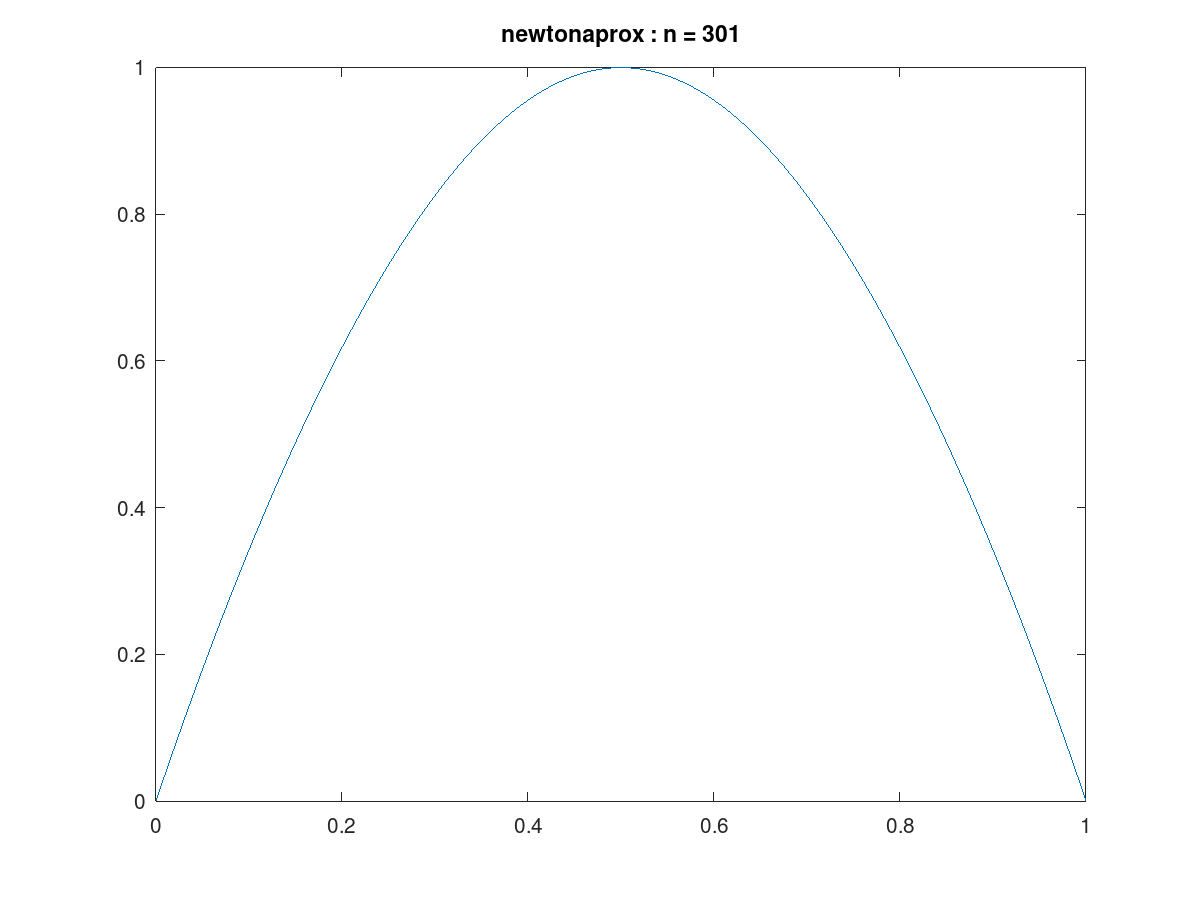
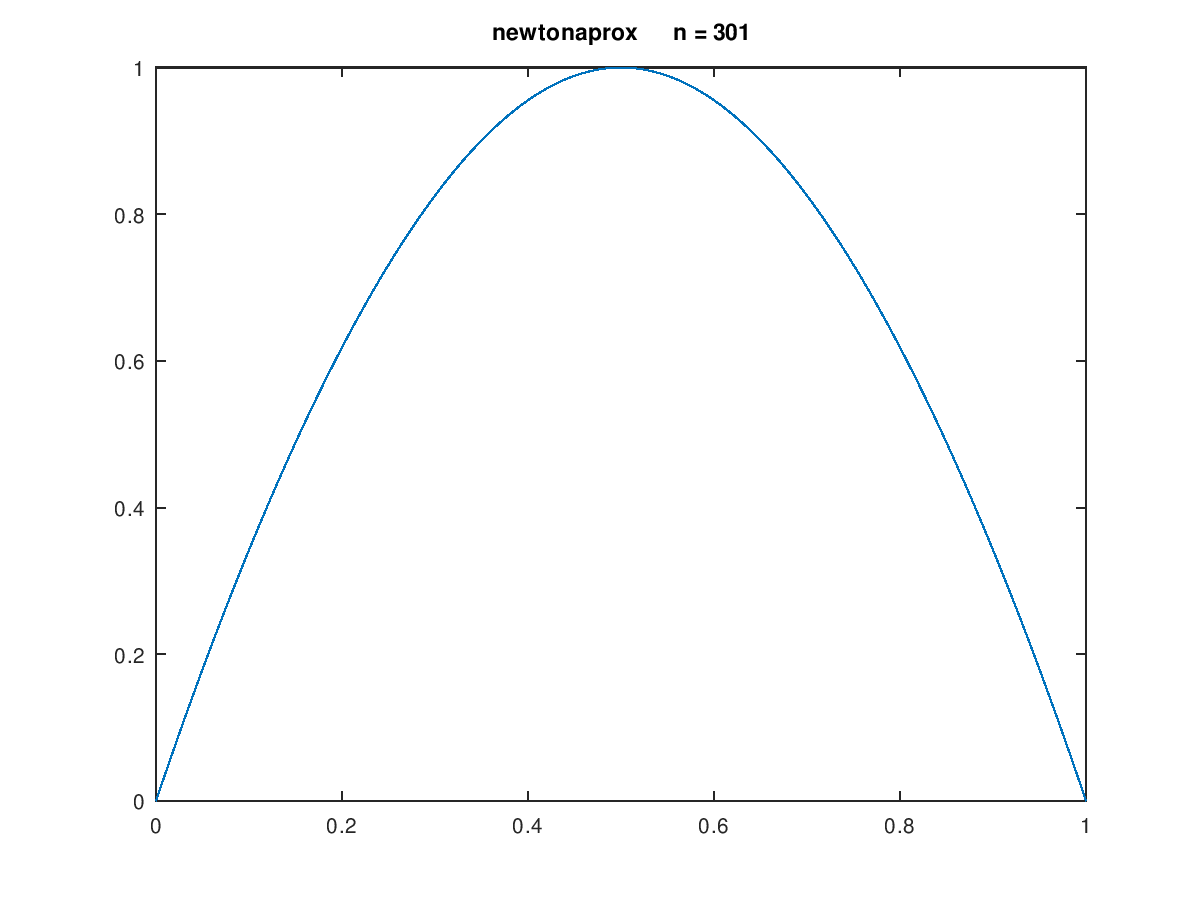
replotando

diff --git a/exe7/main.m b/exe7/main.m
@@ -1,12 +1,13 @@
 function main()
 
 lambda = 3.4647;
+% lambda = 3.475;
 % lambda = 3;
 
 tol = 1e-7;
 itmax = 100;
 
-tams = [11 301 1001]; % 11 301 1001
+tams = [11 301]; % 11 301 1001
 
 % for lambda = lambdas
     % lambda
@@ -52,7 +53,7 @@ tams = [11 301 1001]; % 11 301 1001
         tic
         [x, u, iter, Fu, resvec] = newton_aprox(n, lambda, tol, itmax);
         t = toc
-        title([met " : " "n = " num2str(n)])
+        title([met " — " "n = " num2str(n)])
         grava_grafico([ "plot/" met "_" num2str(n) ], "png");
         semilogy(resvec);
         title([met " — " "n = " num2str(n) " — " "resvec"]);
